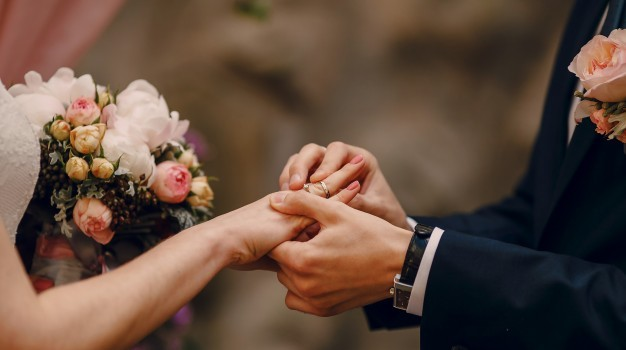
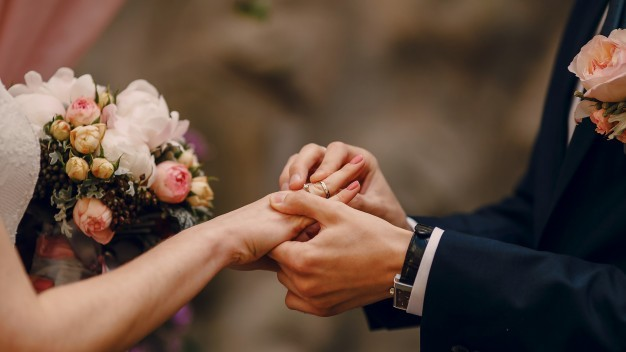
index

diff --git a/index.php b/index.php
@@ -49,7 +49,7 @@
                                         <div class="sc_section_content_wrap">
                                             <div class="esg-media-cover-wrapper">
                                                 <div class="esg-entry-media">
-                                                    <img src="images/anillo.jpg" alt="" style="height: 637px; width: 1492px;">
+                                                    <img src="images/anillo.jpg" alt="" style="height: 576px; width: 1349px;">
                                                 </div>
                                             </div>         
                                         </div>
